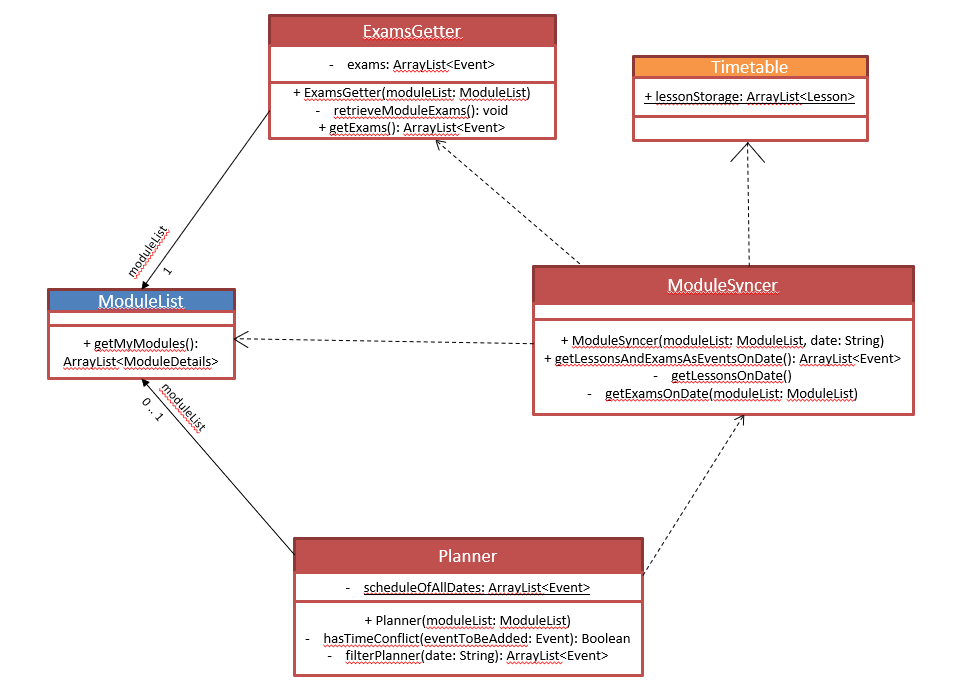
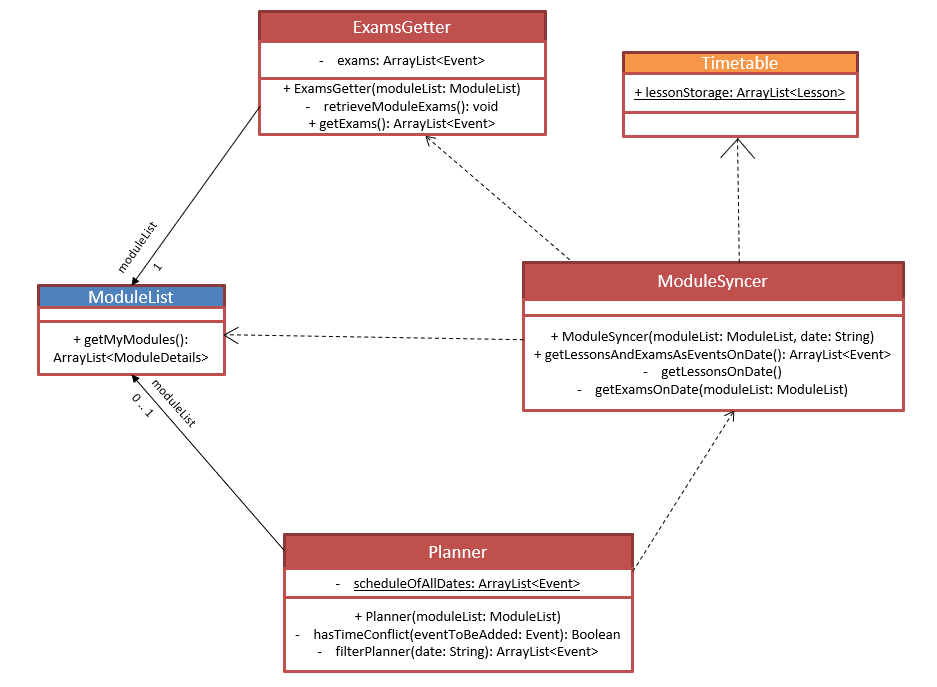
Refine DG with overview architecture diagram
Add more description for overview
Simplify planner add diagrams

diff --git a/docs/DeveloperGuide.md b/docs/DeveloperGuide.md
@@ -24,16 +24,28 @@
 
 ### Main Components of the Architecture
 
-The `Kolinux` class is responsible for initializing the main components upon start-up of the application, and 
+The `Main` class is responsible for initializing the main components upon start-up of the application, and 
 deciding the execution path of the application through the main components based on reading the user inputs.
 
-
 The application consists of the following main components responsible for the high-level execution of a user input:
-1. `Parser`: Makes sense from the user input and decides the execution path.
-2. `Ui`: User interface of the application.
-3. `Command`: Parent class of all available commands on the application.
-4. `CommandResult`: Returns feedback to the user about the result of execution.
+1. `Kolinux`: Initializes the components in the correct sequence, and connects them up with each other.
+2. `util.Ui`: User interface of the application.
+3. `util.Parser`: Makes sense from the user input and decides which `Command` class to initialize.
+4. `util.DirectoryCreator`: Ensures the `/data` directory is created and present for data storage.
+5. `util.KolinuxLogger`: Logs the user activity into `data/logger.log`.
+6. `commands`: Collection of user commands that determines execution.
+7. `routes`: Collection of classes used by Route Finder feature.
+8. `module`: Collection of classes used by Module Manager feature.
+9. `module.timetable`: Sub-collection of classes used by Timetable feature.
+10. `planner`: Collection of classes used by Planner feature.
+11. `capcalculator`: Collection of classes used by CAP Calculator feature.
 
+The architecture diagram below shows a high-level overview of how components interact with each other. 
+
+❕ _Note: Interactions between collections of classes are not shown for simplicity. Visit the 
+[Implementation](#implementation) section for more detailed representations of such interactions._
+
+![Overview Architecture Diagram](assets/images/overviewArchitecture.png)
 
 The sequence diagram below shows a high-level overview of the interaction between entities during the execution
 of a user input _(XYZCommand represents any class that inherits from Command)_.
@@ -41,6 +53,9 @@ of a user input _(XYZCommand represents any class that inherits from Command)_.
 ![Overview Sequence Diagram](assets/images/overviewSeq.png)
 
 ## Implementation
+
+This section describes some noteworthy details on how some features are implemented along with more detailed
+representations of the interactions between components.
 
 ### Add to timetable feature
 
